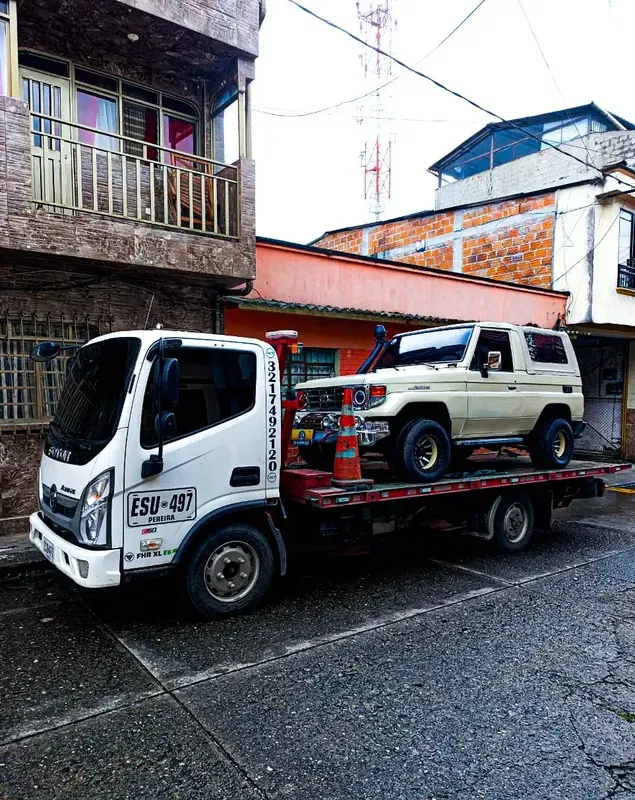
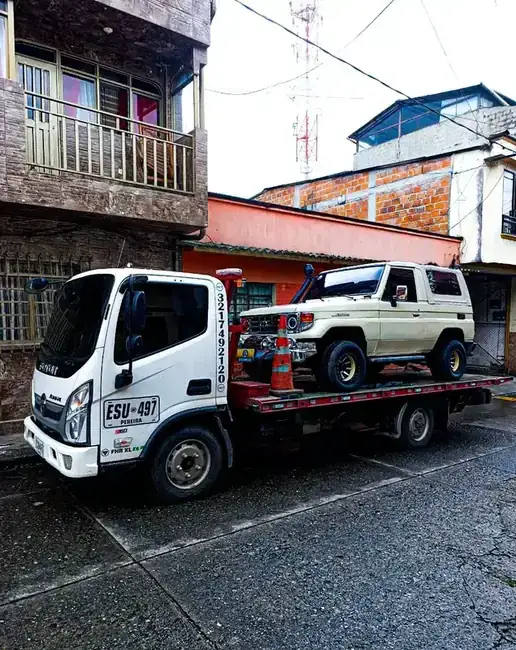
Add files via upload

diff --git a/optimize_images.py b/optimize_images.py
@@ -1,38 +1,40 @@
 import os
 from PIL import Image
 
-def resize_image(path, max_size, quality=80):
+def resize_and_compress(path, max_size, quality=65):
     try:
         with Image.open(path) as img:
-            # Resize
+            # We want to aggressively downsize and compress to satisfy Lighthouse
             if img.width > max_size or img.height > max_size:
                 img.thumbnail((max_size, max_size), Image.Resampling.LANCZOS)
-                img.save(path, 'webp', quality=quality)
-                print(f"Resized {path} to {img.width}x{img.height}")
-            else:
-                # Even if dimensions are smaller, save with a slightly lower quality to compress further
-                img.save(path, 'webp', quality=quality)
-                print(f"Optimized {path} (no resize needed) to {img.width}x{img.height}")
+                
+            img.save(path, 'webp', quality=quality, method=6) # method=6 is the slowest but best compression
+            print(f"Crushed {path} to dimensions {img.width}x{img.height} at quality {quality}")
     except Exception as e:
         print(f"Error processing {path}: {e}")
 
-# Images that are used as block/gallery images and can be max 800px
-images_800 = [
+images_650 = [
     'Grua1.webp', 'Grua2.webp', 'Grua3.webp', 
     'Grua4.webp', 'Grua5.webp', 'Grua6.webp', 
-    'Varadoo.webp', 'Flyer VehiGruas.webp', 'Banner VehiGruas.webp'
+    'Varadoo.webp', 'Flyer VehiGruas.webp'
 ]
 
-# Logos and smaller icons
-images_200 = ['LogoVehi.webp']
+# Banner needs to stay a bit wider for desktop hero, maybe 800px but lower quality
+images_800 = ['Banner VehiGruas.webp']
 
-print("Starting image optimization...")
+images_150 = ['LogoVehi.webp', 'Fav.webp']
+
+print("Starting deep image compression...")
+for img in images_650:
+    if os.path.exists(img):
+        resize_and_compress(img, 650, quality=65)
+
 for img in images_800:
     if os.path.exists(img):
-        resize_image(img, 800)
+        resize_and_compress(img, 800, quality=65)
 
-for img in images_200:
+for img in images_150:
     if os.path.exists(img):
-        resize_image(img, 250)
+        resize_and_compress(img, 150, quality=70)
 
-print("Finished optimizing images.")
+print("Finished deep compression.")
